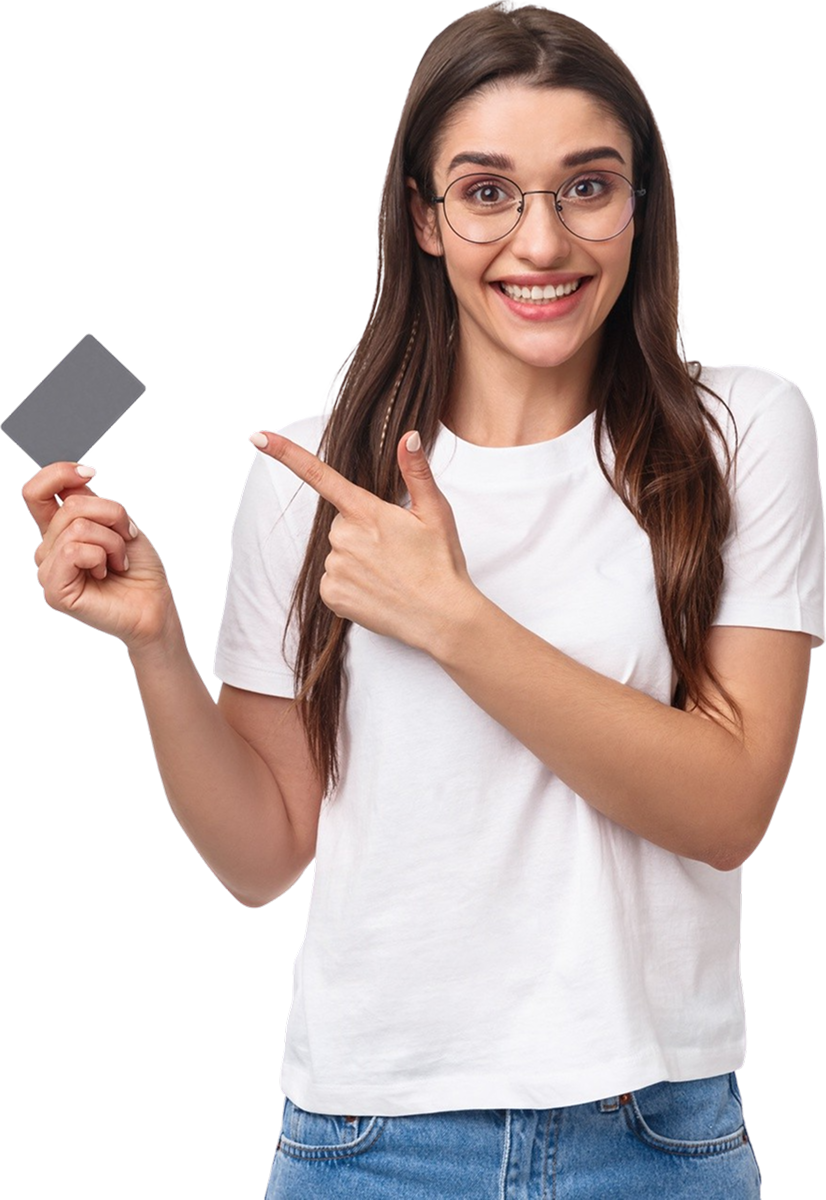
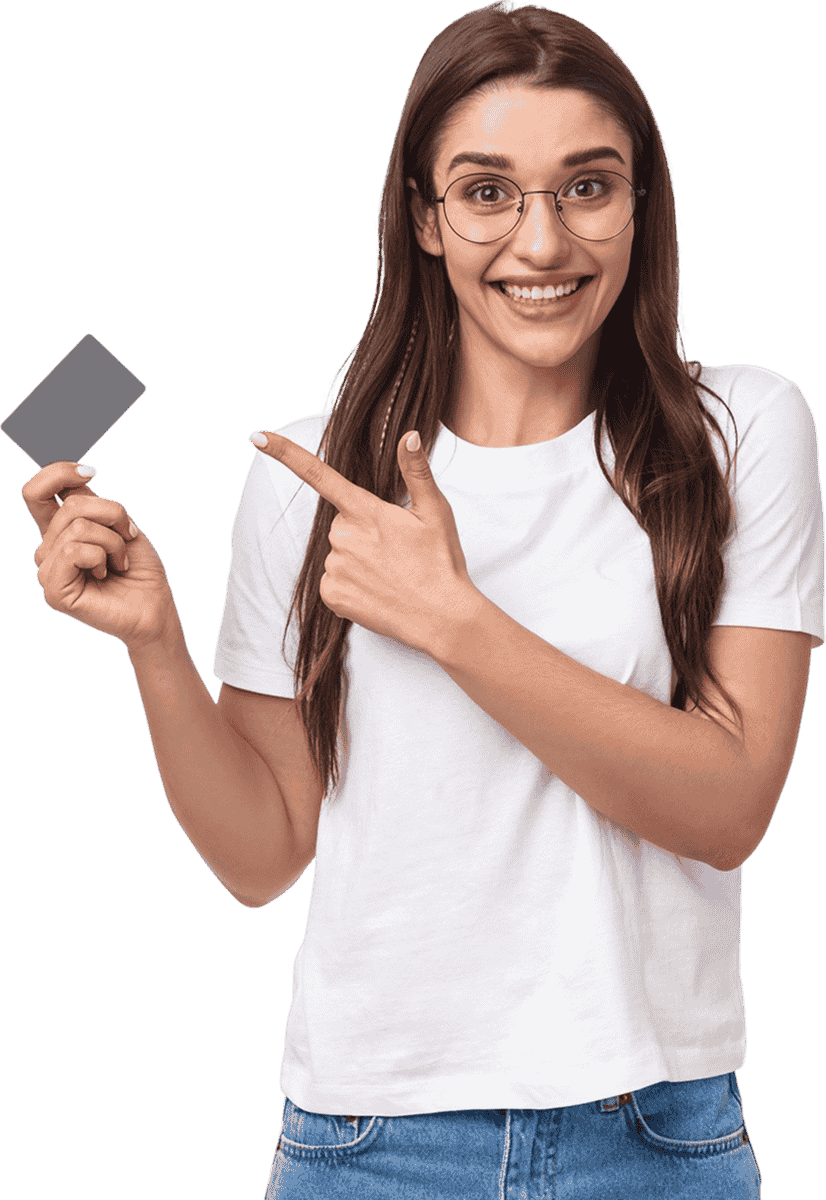
Optimize image

diff --git a/index.html b/index.html
@@ -655,7 +655,7 @@
                     <!-- Blog item 01 -->
 
                     <div class="blog__item">
-                        <img src="./assets/images/blog-01.jpg"
+                        <img src="./assets/images/blog-01.png"
                             alt="Online bank is the best and secure way to save in the future" class="blog__item--img">
                         <section class="blog__info">
                             <span class="blog__info--date">
@@ -677,7 +677,7 @@
                     <!-- Blog item 02 -->
 
                     <div class="blog__item">
-                        <img src="./assets/images/blog-02.jpg" alt="Why do you need to open a bank account in online.."
+                        <img src="./assets/images/blog-02.png" alt="Why do you need to open a bank account in online.."
                             class="blog__item--img">
                         <section class="blog__info">
                             <span class="blog__info--date">
@@ -699,7 +699,7 @@
                     <!-- Blog item 03 -->
 
                     <div class="blog__item">
-                        <img src="./assets/images/blog-03.jpg"
+                        <img src="./assets/images/blog-03.png"
                             alt="The benefits that we get from credit card at anytime..." class="blog__item--img">
                         <section class="blog__info">
                             <span class="blog__info--date">
@@ -721,7 +721,7 @@
                     <!-- Blog item 04 -->
 
                     <div class="blog__item">
-                        <img src="./assets/images/blog-04.jpg"
+                        <img src="./assets/images/blog-04.png"
                             alt="How to manage your money in online in this busy days..." class="blog__item--img">
                         <section class="blog__info">
                             <span class="blog__info--date">
